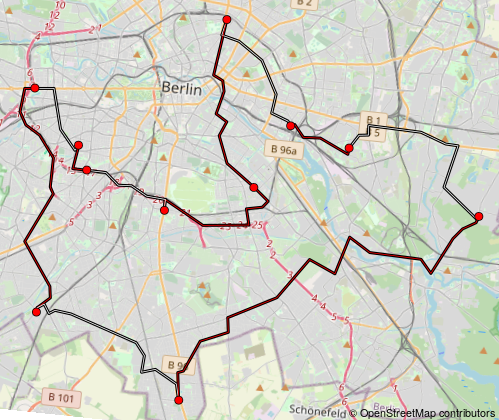
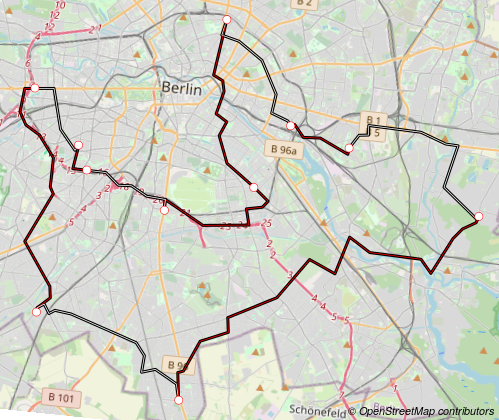
cartography => mapsf

diff --git a/README.md b/README.md
@@ -67,11 +67,11 @@ distA$durations
 
 |            | 440338666 | 538057637 | 977657079 | 3770254015 | 364363337 |
 |:-----------|----------:|----------:|----------:|-----------:|----------:|
-| 440338666  |       0.0 |      21.5 |      34.1 |       19.7 |      11.8 |
-| 538057637  |      22.9 |       0.0 |      42.0 |       16.1 |      20.7 |
-| 977657079  |      34.0 |      42.6 |       0.0 |       30.5 |      27.3 |
-| 3770254015 |      22.4 |      15.3 |      29.7 |        0.0 |      12.7 |
-| 364363337  |      12.1 |      20.2 |      26.7 |       12.0 |       0.0 |
+| 440338666  |       0.0 |      21.4 |      34.1 |       19.5 |      11.7 |
+| 538057637  |      22.8 |       0.0 |      42.8 |       16.1 |      20.7 |
+| 977657079  |      34.1 |      43.3 |       0.0 |       31.2 |      27.4 |
+| 3770254015 |      22.3 |      15.3 |      30.7 |        0.0 |      12.7 |
+| 364363337  |      12.0 |      20.2 |      26.8 |       12.0 |       0.0 |
 
 </small>
 
@@ -80,6 +80,7 @@ distA$durations
 ``` r
 library(sf)
 library(maptiles)
+library(mapsf)
 # Route
 route <- osrmRoute(src = apotheke.sf[74,], dst = apotheke.sf[55,],
                    overview = "full", returnclass = "sf")
@@ -88,10 +89,10 @@ osm <- get_tiles(x = route, crop = TRUE, zoom = 13)
 png("img/route.png", width = 693, height = 263)
 par(mar = c(0,0,0,0))
 plot_tiles(osm)
-plot(st_geometry(route), lwd = 4, add = TRUE)
-plot(st_geometry(route), lwd = 1, col = "white", add = TRUE)
-plot(st_geometry(apotheke.sf[c(74,55),]), pch = 20, col = "red", add = TRUE)
-mtext(get_credit("OpenStreetMap"), side = 1, line = -1, cex = .9, adj = .99)
+mf_map(route, lwd = 4, add = TRUE, col = "black")
+mf_map(route, lwd = 1, col = "white", add = TRUE)
+mf_map(apotheke.sf[c(74,55),], pch = 20, col = "red", add = TRUE)
+mf_credits(get_credit("OpenStreetMap"), pos = "bottomright", cex = .9)
 dev.off()
 ```
 
@@ -108,10 +109,10 @@ osm2 <- get_tiles(x = trip, crop = TRUE, zoom = 11)
 png("img/trip.png", width = 499, height = 420)
 par(mar = c(0,0,0,0))
 plot_tiles(osm2)
-plot(st_geometry(trip), col = "black", lwd = 4, add = TRUE )
-plot(st_geometry(trip), col = c("red", "white"), lwd = 1, add=TRUE)
-plot(st_geometry(apotheke.sf[10:20,]), pch = 21, bg = "red", cex = 1.5, add=TRUE)
-mtext(get_credit("OpenStreetMap"), side = 1, line = -1, cex = .9, adj = .99)
+mf_map(trip, col = "black", lwd = 4, add = TRUE )
+mf_map(trip, col = c("red", "white"), lwd = 1, add = TRUE)
+mf_map(apotheke.sf[10:20,], pch = 21, col = "red", cex = 1.5, add = TRUE)
+mf_credits(get_credit("OpenStreetMap"), pos = "bottomright", cex = .9)
 dev.off()
 ```
 
@@ -120,24 +121,24 @@ dev.off()
 ### `osrmIsochrone`
 
 ``` r
+bks <- seq(from = 0, to = 14, by = 2)
 iso <- osrmIsochrone(loc = apotheke.sf[87,], returnclass="sf",
-                     breaks = seq(from = 0, to = 14, by = 2), res = 70)
+                     breaks = bks, res = 70)
 osm3 <- get_tiles(x = iso, crop = TRUE, zoom = 12)
-bks <- sort(c(unique(iso$min), max(iso$max)))
-library(cartography)
-cols <- paste0(carto.pal("turquoise.pal", n1 = length(bks)-1), 'BF')
+cols <- hcl.colors(n = 7, palette = "Emrld", alpha = 0.75, rev = F)
 png("img/iso.png", width = 604, height = 595)
 par(mar = c(0,0,0,0))
 plot_tiles(osm3)
-choroLayer(x = iso, var = "center", breaks = bks,
-           border = NA, col = cols,
-           legend.pos = "topleft",legend.frame = TRUE,
-           legend.title.txt = "Isochrones\n(min)",
-           legend.title.cex = 1, legend.values.cex = .8,
-           add = TRUE)
-plot(st_geometry(apotheke.sf[87,]), pch = 21, bg = "red", 
-     cex = 1.5, add=TRUE)
-mtext(get_credit("OpenStreetMap"), side = 1, line = -1, cex = .9, adj = .99)
+mf_theme(mar = c(0,0,0,0))
+mf_map(x = iso, var = "center", type = "choro", 
+       breaks = bks, border = NA, pal = cols,
+       leg_pos = "topleft", leg_frame = T,
+       leg_title = "Isochrones\n(min)",
+       leg_title_cex = 1, leg_val_cex = .8,
+       add = TRUE)
+mf_map(apotheke.sf[87,], pch = 21, col = "red", 
+       cex = 1.5, add=TRUE)
+mf_credits(get_credit("OpenStreetMap"), cex = .9)
 dev.off()
 ```
 
